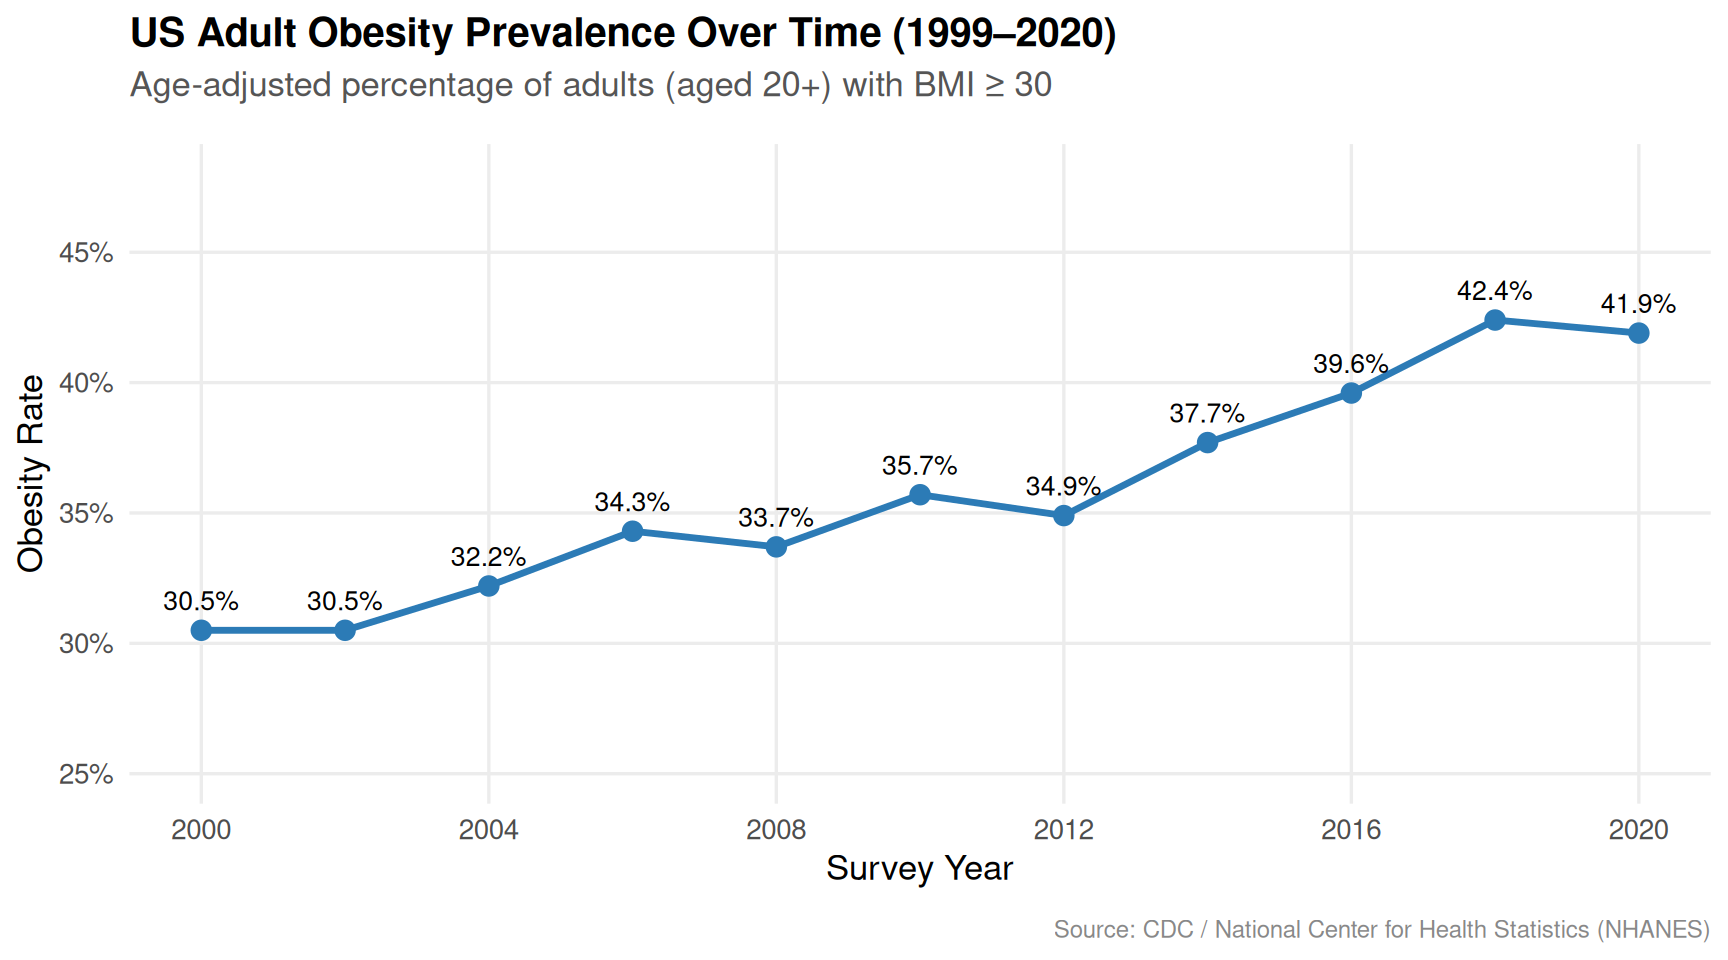
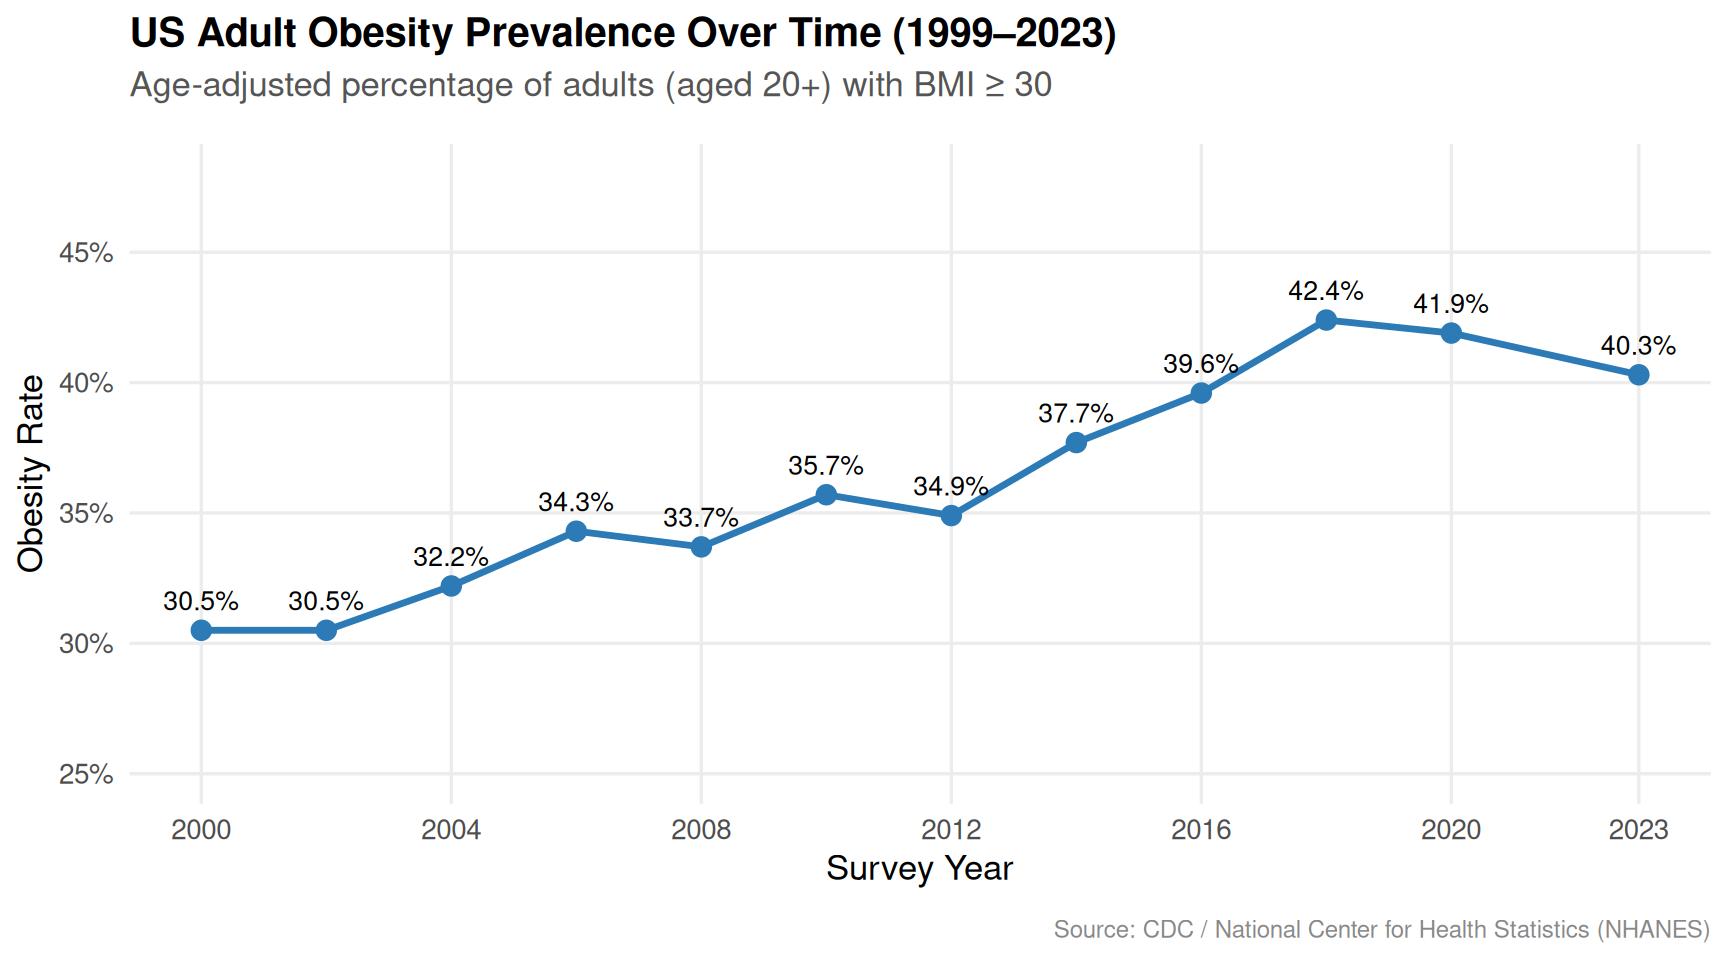
new data

diff --git a/_site/food.html b/_site/food.html
@@ -150,23 +150,14 @@ ul.task-list li input[type="checkbox"] {
 </div>
 </div>
 </div>
-<section id="ultra-processed-food-consumption-over-time" class="level2">
-<h2 class="anchored" data-anchor-id="ultra-processed-food-consumption-over-time">Ultra-Processed Food Consumption Over Time</h2>
-<p>Research from NHANES dietary recall surveys tracks the proportion of daily calories coming from ultra-processed foods (such as packaged snacks, sugary beverages, and ready-to-eat meals) among Americans.</p>
+<section id="dietary-trends-ultra-processed-vs.-minimally-processed-foods" class="level2">
+<h2 class="anchored" data-anchor-id="dietary-trends-ultra-processed-vs.-minimally-processed-foods">Dietary Trends: Ultra-Processed vs.&nbsp;Minimally Processed Foods</h2>
+<p>Research from NHANES dietary recall surveys tracks the proportion of daily calories coming from ultra-processed foods compared to whole and minimally processed foods among Americans.</p>
 <div class="cell" data-layout-align="center">
 <div class="cell-output-display">
 <div class="quarto-figure quarto-figure-center">
 <figure class="figure">
-<p><img src="food_files/figure-html/upf-time-plot-1.png" class="img-fluid quarto-figure quarto-figure-center figure-img" width="864"></p>
-</figure>
-</div>
-</div>
-</div>
-<div class="cell" data-layout-align="center">
-<div class="cell-output-display">
-<div class="quarto-figure quarto-figure-center">
-<figure class="figure">
-<p><img src="food_files/figure-html/non-upf-time-plot-1.png" class="img-fluid quarto-figure quarto-figure-center figure-img" width="864"></p>
+<p><img src="food_files/figure-html/food-processing-plot-1.png" class="img-fluid quarto-figure quarto-figure-center figure-img" width="864"></p>
 </figure>
 </div>
 </div>
@@ -253,7 +244,7 @@ ul.task-list li input[type="checkbox"] {
     }
       var localhostRegex = new RegExp(/^(?:http|https):\/\/localhost\:?[0-9]*\//);
       var mailtoRegex = new RegExp(/^mailto:/);
-        var filterRegex = new RegExp("https:\/\/SamuelSammartano\.github\.io\/health-food\/");
+        var filterRegex = new RegExp('/' + window.location.host + '/');
       var isInternal = (href) => {
           return filterRegex.test(href) || localhostRegex.test(href) || mailtoRegex.test(href);
       }

diff --git a/_site/index.html b/_site/index.html
@@ -173,11 +173,11 @@ ul.task-list li input[type="checkbox"] {
 </div>
 <ul>
 <li><strong>Rising Trend:</strong> Between 1999–2000 and 2017–2018, the US adult obesity rate increased from 30.5% to over 42%.</li>
-<li><strong>Recent Leveling:</strong> Rates remained above 41% entering 2020, highlighting continuing public health challenges.</li>
+<li><strong>Recent Leveling:</strong> Rates remained above 41% entering 2020, and the August 2021–August 2023 survey recorded 40.3%, pointing to a recent stabilization.</li>
 </ul>
 </section>
-<section id="food-processing-trends-over-time-20012018" class="level2">
-<h2 class="anchored" data-anchor-id="food-processing-trends-over-time-20012018">Food Processing Trends Over Time (2001–2018)</h2>
+<section id="food-processing-trends-over-time-20012023" class="level2">
+<h2 class="anchored" data-anchor-id="food-processing-trends-over-time-20012023">Food Processing Trends Over Time (2001–2023)</h2>
 <p>Research from NHANES dietary recall surveys tracks how the proportion of daily calories coming from ultra-processed foods versus whole or minimally processed foods has shifted among US adults.</p>
 <div class="cell" data-layout-align="center">
 <div class="cell-output-display">
@@ -279,7 +279,7 @@ ul.task-list li input[type="checkbox"] {
     }
       var localhostRegex = new RegExp(/^(?:http|https):\/\/localhost\:?[0-9]*\//);
       var mailtoRegex = new RegExp(/^mailto:/);
-        var filterRegex = new RegExp("https:\/\/SamuelSammartano\.github\.io\/health-food\/");
+        var filterRegex = new RegExp('/' + window.location.host + '/');
       var isInternal = (href) => {
           return filterRegex.test(href) || localhostRegex.test(href) || mailtoRegex.test(href);
       }

diff --git a/_site/health-food.html b/_site/health-food.html
@@ -162,8 +162,8 @@ ul.task-list li input[type="checkbox"] {
 </div>
 </div>
 </section>
-<section id="food-processing-trends-over-time-20012018" class="level2">
-<h2 class="anchored" data-anchor-id="food-processing-trends-over-time-20012018">Food Processing Trends Over Time (2001–2018)</h2>
+<section id="food-processing-trends-over-time-20012023" class="level2">
+<h2 class="anchored" data-anchor-id="food-processing-trends-over-time-20012023">Food Processing Trends Over Time (2001–2023)</h2>
 <p>Research from NHANES dietary recall surveys tracks how the proportion of daily calories coming from ultra-processed foods versus whole or minimally processed foods has shifted among US adults.</p>
 <div class="cell" data-layout-align="center">
 <div class="cell-output-display">
@@ -265,7 +265,7 @@ ul.task-list li input[type="checkbox"] {
     }
       var localhostRegex = new RegExp(/^(?:http|https):\/\/localhost\:?[0-9]*\//);
       var mailtoRegex = new RegExp(/^mailto:/);
-        var filterRegex = new RegExp("https:\/\/SamuelSammartano\.github\.io\/health-food\/");
+        var filterRegex = new RegExp('/' + window.location.host + '/');
       var isInternal = (href) => {
           return filterRegex.test(href) || localhostRegex.test(href) || mailtoRegex.test(href);
       }
